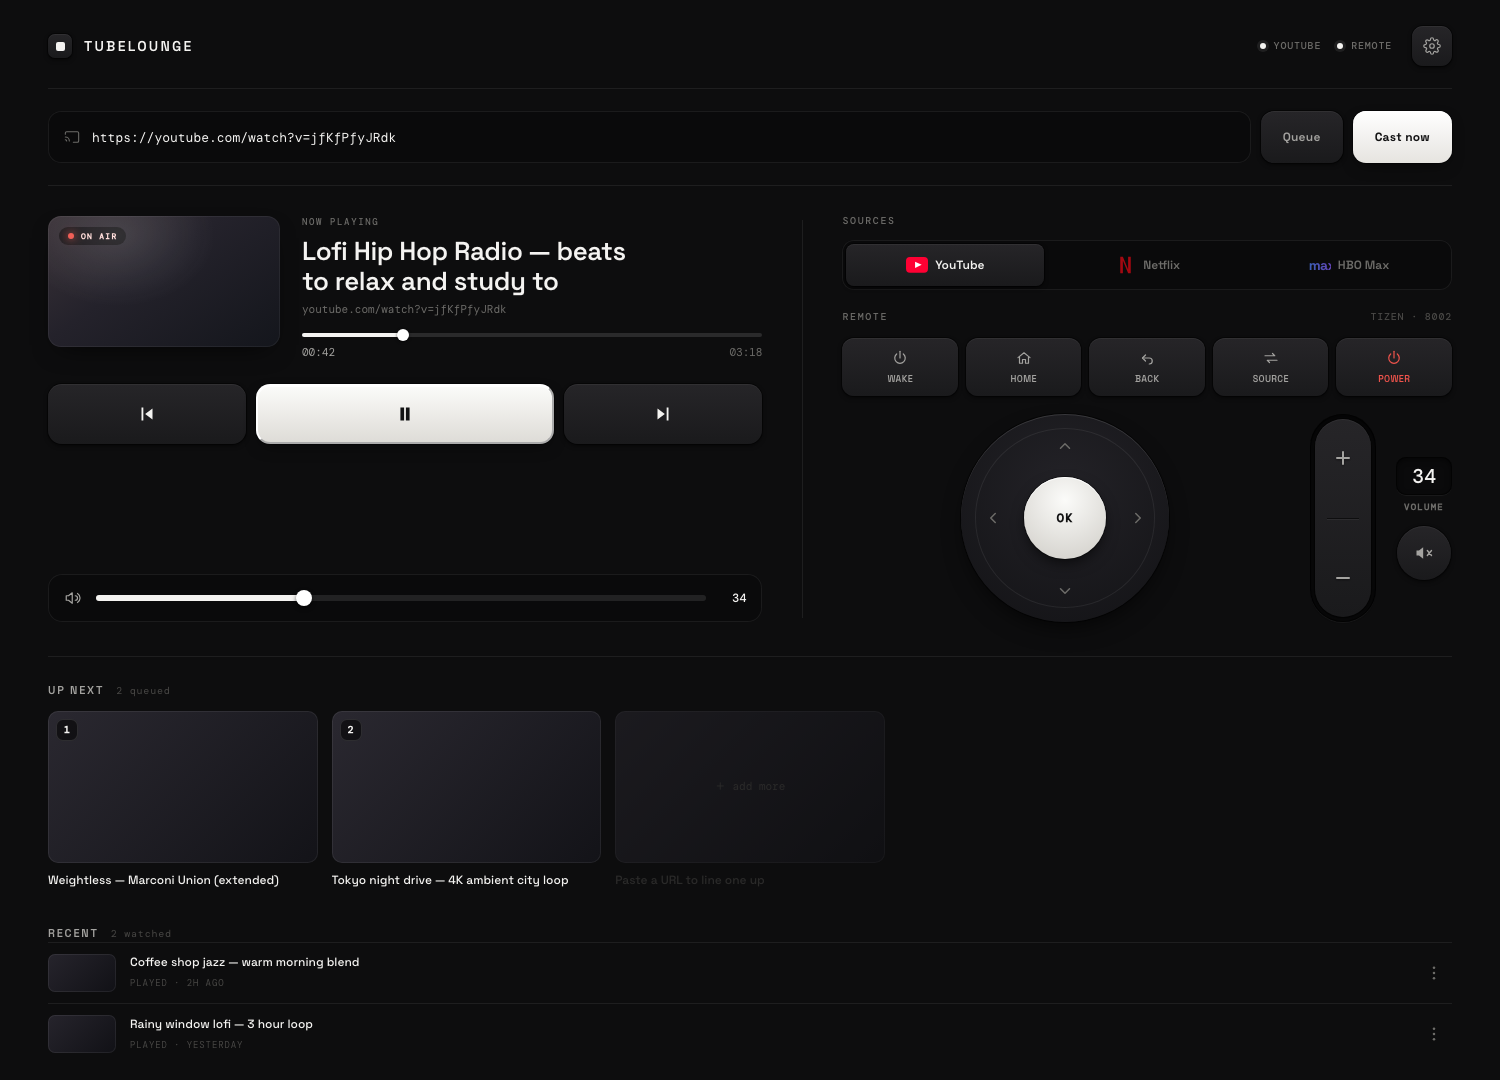
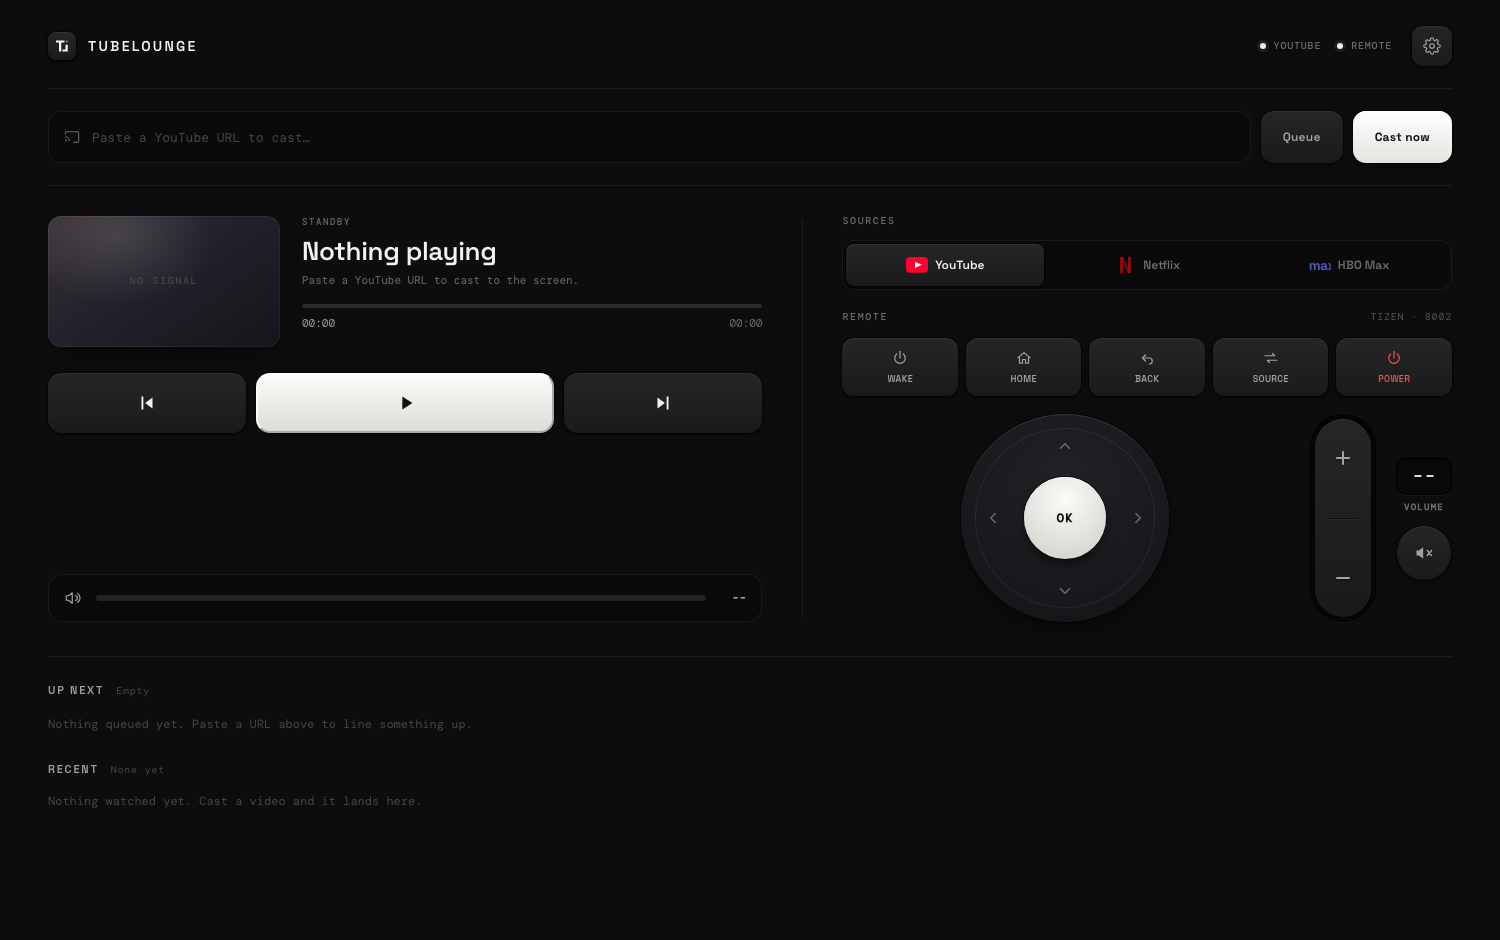
Strip sample data from deck; show real standby/empty state

diff --git a/designs/deck.html b/designs/deck.html
@@ -93,6 +93,7 @@
         background: linear-gradient(145deg, #3a3238 0%, #24222b 42%, #14161c 100%);
         box-shadow: inset 0 0 0 1px rgba(255,255,255,0.06), 0 10px 26px -12px rgba(0,0,0,0.8); }
       .np-thumb::after { content: ""; position: absolute; inset: 0; background: radial-gradient(70% 90% at 30% 15%, rgba(255,255,255,0.12), transparent 60%); }
+      .np-off { position: absolute; inset: 0; z-index: 1; display: grid; place-items: center; color: var(--ink-4); font: 500 10px/1 "DM Mono", monospace; letter-spacing: 0.16em; text-transform: uppercase; }
       .onair { position: absolute; top: 11px; left: 11px; display: flex; align-items: center; gap: 7px; padding: 5px 9px;
         border-radius: 999px; background: rgba(0,0,0,0.5); backdrop-filter: blur(4px); color: #ffd9d6;
         font: 600 8px/1 "DM Mono", monospace; letter-spacing: 0.16em; }
@@ -200,6 +201,7 @@
       .tray-head { display: flex; align-items: baseline; gap: 12px; margin-bottom: 14px; }
       .tray-head h3 { margin: 0; font-size: 11px; font-weight: 600; letter-spacing: 0.16em; text-transform: uppercase; color: var(--ink-2); }
       .tray-head .count { color: var(--ink-4); font: 400 10px/1 "DM Mono", monospace; letter-spacing: 0.08em; }
+      .tray-empty { color: var(--ink-4); font: 400 12px/1.6 "DM Mono", monospace; padding: 4px 0 2px; }
       .filmstrip { display: grid; grid-template-columns: repeat(auto-fill, minmax(230px, 1fr)); gap: 14px; }
       .film { position: relative; }
       .film-thumb { position: relative; aspect-ratio: 16/9; border-radius: 10px; overflow: hidden;
@@ -277,7 +279,7 @@
       <div class="cast">
         <label class="cast-field">
           <svg viewBox="0 0 24 24"><path d="M2 8V6a2 2 0 0 1 2-2h16a2 2 0 0 1 2 2v12a2 2 0 0 1-2 2h-6"/><path d="M2 12a6 6 0 0 1 6 6"/><path d="M2 16a2 2 0 0 1 2 2"/></svg>
-          <input type="url" placeholder="Paste a YouTube URL to cast…" value="https://youtube.com/watch?v=jfKfPfyJRdk">
+          <input type="url" placeholder="Paste a YouTube URL to cast…">
         </label>
         <button class="btn">Queue</button>
         <button class="btn go">Cast now</button>
@@ -288,28 +290,28 @@
         <!-- LEFT: now playing -->
         <div class="col-l">
           <div class="np">
-            <div class="np-thumb"><span class="onair"><i></i> ON AIR</span></div>
+            <div class="np-thumb"><span class="np-off">No signal</span></div>
             <div class="np-meta">
-              <p class="eyebrow">Now playing</p>
-              <h2>Lofi Hip Hop Radio — beats to relax and study to</h2>
-              <p class="src">youtube.com/watch?v=jfKfPfyJRdk</p>
+              <p class="eyebrow">Standby</p>
+              <h2>Nothing playing</h2>
+              <p class="src">Paste a YouTube URL to cast to the screen.</p>
               <div class="scrub">
-                <div class="scrub-line"><span class="scrub-fill"></span><span class="scrub-knob"></span></div>
-                <div class="scrub-time"><span>00:42</span><span class="dur">03:18</span></div>
+                <div class="scrub-line"><span class="scrub-fill" style="width:0"></span></div>
+                <div class="scrub-time"><span>00:00</span><span class="dur">00:00</span></div>
               </div>
             </div>
           </div>
 
           <div class="transport">
             <button class="key tkey" aria-label="Previous"><svg viewBox="0 0 24 24"><path d="M6 5h2v14H6zm12 1-8 6 8 6z"/></svg></button>
-            <button class="tkey play" aria-label="Pause"><svg viewBox="0 0 24 24"><path d="M7 5h4v14H7zm6 0h4v14h-4z"/></svg></button>
+            <button class="tkey play" aria-label="Play"><svg viewBox="0 0 24 24" style="transform:translateX(1px)"><path d="m8 5 11 7-11 7z"/></svg></button>
             <button class="key tkey" aria-label="Next"><svg viewBox="0 0 24 24"><path d="M16 5h2v14h-2zM6 6l8 6-8 6z"/></svg></button>
           </div>
 
           <div class="fader">
             <svg viewBox="0 0 24 24"><path d="M11 5 6 9H3v6h3l5 4z"/><path d="M15 9a3 3 0 0 1 0 6"/><path d="M18 6a7 7 0 0 1 0 12"/></svg>
-            <div class="fader-track"><span class="fader-fill"></span><span class="fader-knob"></span></div>
-            <span class="fader-val">34</span>
+            <div class="fader-track"><span class="fader-fill" style="width:0"></span></div>
+            <span class="fader-val">--</span>
           </div>
         </div>
 
@@ -356,7 +358,7 @@
                 </button>
               </div>
               <div class="vol-side">
-                <output class="vol-readout" aria-label="Volume">34</output>
+                <output class="vol-readout" aria-label="Volume">--</output>
                 <span class="vol-cap">Volume</span>
                 <button class="key vol-mute" type="button" aria-label="Mute">
                   <svg viewBox="0 0 24 24"><path d="M11 5 6 9H3v6h3l5 4z" fill="currentColor" stroke="none"/><path d="M16 9l5 6M21 9l-5 6" fill="none" stroke="currentColor" stroke-width="1.7" stroke-linecap="round"/></svg>
@@ -369,50 +371,12 @@
 
       <!-- TRAY -->
       <div class="tray">
-        <div class="tray-head"><h3>Up next</h3><span class="count">2 queued</span></div>
-        <div class="filmstrip">
-          <div class="film">
-            <div class="film-thumb"><span class="film-num">1</span><button class="film-rm" aria-label="Remove"><svg viewBox="0 0 24 24"><path d="M6 6l12 12M18 6 6 18"/></svg></button></div>
-            <p class="film-title">Weightless — Marconi Union (extended)</p>
-          </div>
-          <div class="film">
-            <div class="film-thumb"><span class="film-num">2</span><button class="film-rm" aria-label="Remove"><svg viewBox="0 0 24 24"><path d="M6 6l12 12M18 6 6 18"/></svg></button></div>
-            <p class="film-title">Tokyo night drive — 4K ambient city loop</p>
-          </div>
-          <div class="film" style="opacity:.5">
-            <div class="film-thumb" style="display:grid;place-items:center;color:var(--ink-4);font:400 11px/1 'DM Mono',monospace">＋ add more</div>
-            <p class="film-title" style="color:var(--ink-4)">Paste a URL to line one up</p>
-          </div>
-        </div>
+        <div class="tray-head"><h3>Up next</h3><span class="count">Empty</span></div>
+        <p class="tray-empty">Nothing queued yet. Paste a URL above to line something up.</p>
 
         <div class="recent">
-          <div class="tray-head" style="margin-bottom:2px"><h3>Recent</h3><span class="count">2 watched</span></div>
-          <div class="ritem">
-            <button class="rrow" type="button" aria-label="Play again: Coffee shop jazz">
-              <span class="rthumb"><svg class="rplay-ic" viewBox="0 0 24 24"><path d="M8 5v14l11-7z"/></svg></span>
-              <span class="rmeta"><strong>Coffee shop jazz — warm morning blend</strong><span>Played · 2h ago</span></span>
-            </button>
-            <details class="rmenu">
-              <summary aria-label="More options"><svg viewBox="0 0 24 24"><circle cx="12" cy="5" r="1.7"/><circle cx="12" cy="12" r="1.7"/><circle cx="12" cy="19" r="1.7"/></svg></summary>
-              <div class="rmenu-pop">
-                <button class="rmenu-item"><svg viewBox="0 0 24 24"><path d="M8 5v14l11-7z" fill="currentColor" stroke="none"/></svg> Play again</button>
-                <button class="rmenu-item"><svg viewBox="0 0 24 24"><path d="M4 7h11M4 12h11M4 17h7"/><path d="M18 12v7M14.5 15.5h7"/></svg> Add to queue</button>
-              </div>
-            </details>
-          </div>
-          <div class="ritem">
-            <button class="rrow" type="button" aria-label="Play again: Rainy window lofi">
-              <span class="rthumb"><svg class="rplay-ic" viewBox="0 0 24 24"><path d="M8 5v14l11-7z"/></svg></span>
-              <span class="rmeta"><strong>Rainy window lofi — 3 hour loop</strong><span>Played · yesterday</span></span>
-            </button>
-            <details class="rmenu">
-              <summary aria-label="More options"><svg viewBox="0 0 24 24"><circle cx="12" cy="5" r="1.7"/><circle cx="12" cy="12" r="1.7"/><circle cx="12" cy="19" r="1.7"/></svg></summary>
-              <div class="rmenu-pop">
-                <button class="rmenu-item"><svg viewBox="0 0 24 24"><path d="M8 5v14l11-7z" fill="currentColor" stroke="none"/></svg> Play again</button>
-                <button class="rmenu-item"><svg viewBox="0 0 24 24"><path d="M4 7h11M4 12h11M4 17h7"/><path d="M18 12v7M14.5 15.5h7"/></svg> Add to queue</button>
-              </div>
-            </details>
-          </div>
+          <div class="tray-head" style="margin-bottom:2px"><h3>Recent</h3><span class="count">None yet</span></div>
+          <p class="tray-empty">Nothing watched yet. Cast a video and it lands here.</p>
         </div>
       </div>
     </div>